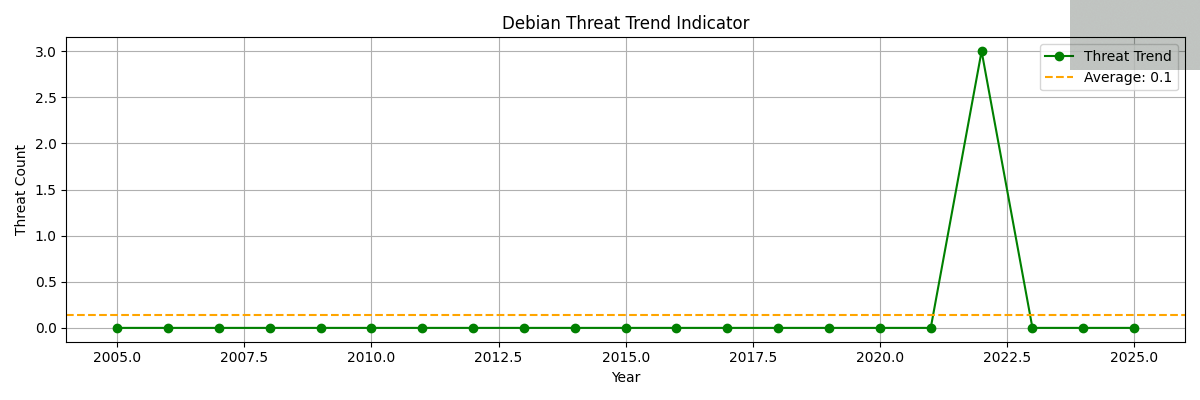
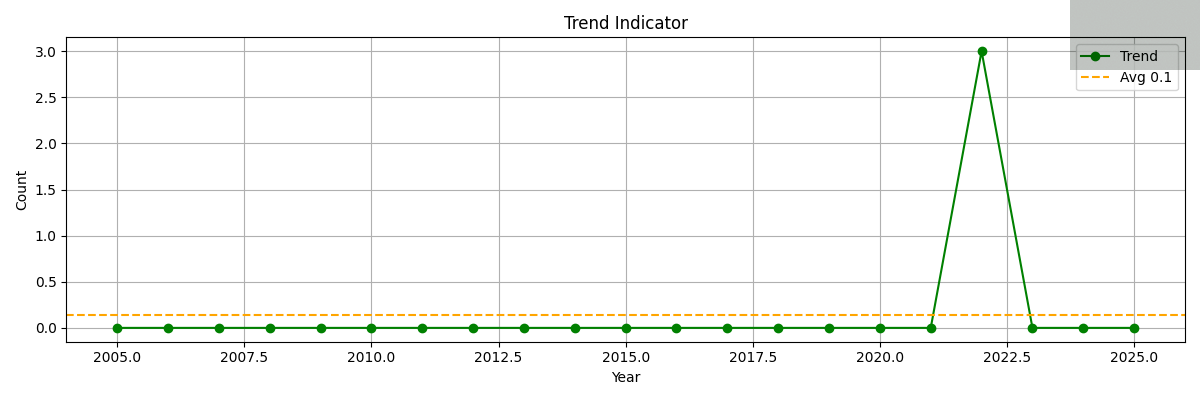
Update README with Linux Kernel Threat Report

diff --git a/README.md b/README.md
@@ -1,18 +1,18 @@
-# Debian Threats Report
+# Linux Kernel Threats Report
 
-_Last updated: 2025-06-19T13:27:58.306829 UTC_
+_Last updated: 2025-06-19T14:33:34.662350_
 
-<p align="center"><img src="HARDN%20(1).png" width="180" alt="Project Logo"></p>
+<p align="center"><img src="HARDN%20(1).png" width="180"></p>
 
-![Debian Threats by Year](threats_by_year.png)
+![Threats](threats_by_year.png)
 
-![Threat Trend](threat_trend_line.png)
+![Trend](threat_trend_line.png)
 
-## Threat Table
+## Data Table
 
-| Name | Created | Description |
-|------|---------|-------------|
-| [Critical Vulnerabilities in Internet-Exposed Linux Servers Allow Attackers to Perform RCE](https://otx.alienvault.com/pulses/search?q=debian%202022) | 2022-05-02T13:28:53.211000 | Researchers at Rapid7 have detected around 2,000 Linux servers online that suffer from a critical vu... |
-| [Vulnerability in Dpkg Software](https://otx.alienvault.com/pulses/search?q=debian%202022) | 2022-06-01T04:48:39.851000 | A vulnerability (CVE-2022-1664) has been identified in Dpkg Software {software at the base of the pa... |
-| [Muhstik Gang targets Redis Servers](https://otx.alienvault.com/pulses/search?q=debian%202022) | 2022-10-21T05:51:06.981000 | Juniper Threat Labs has uncovered an attack that targets Redis Servers using a recently disclosed vu... |
+|Name|Created|Desc|CVSS|
+|---|---|---|---|
+|Critical Vulnerabilities in Internet-Exposed Linux Servers Allow Attackers to Perform RCE|2022-05-02T13:28:53.211000|Researchers at Rapid7 have detected around 2,000 Linux servers online that suffe...|0|
+|Vulnerability in Dpkg Software|2022-06-01T04:48:39.851000|A vulnerability (CVE-2022-1664) has been identified in Dpkg Software {software a...|0|
+|Muhstik Gang targets Redis Servers|2022-10-21T05:51:06.981000|Juniper Threat Labs has uncovered an attack that targets Redis Servers using a r...|0|
 
